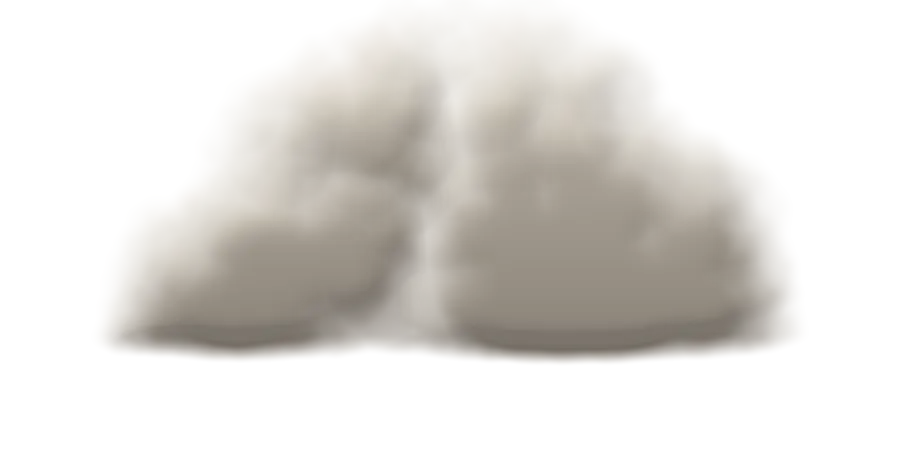
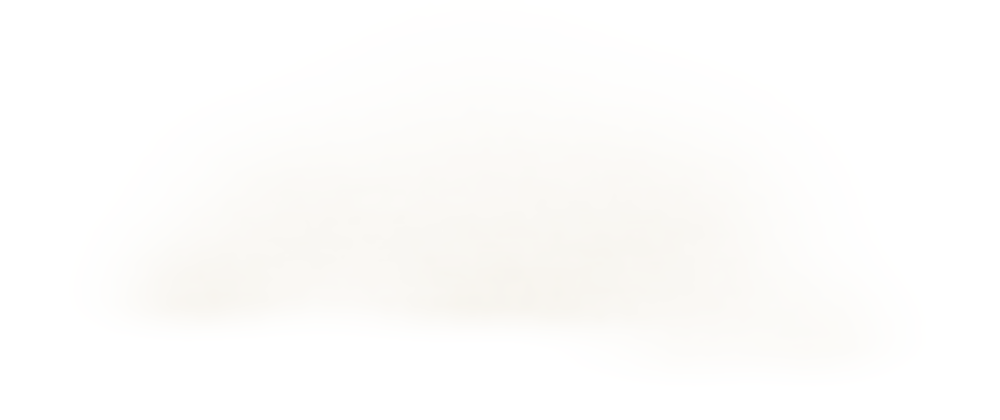
feat: the clouds cross the landing as ink washes, in the manner of the persimmon (#461)
* feat: the clouds cross the landing as ink washes, in the manner of the persimmon

The photographic cumulus sat oddly beside a wash painting and read as one
compact lump. brand/clouds.py now paints three cloud banks the way a wash
sits on paper: one tint with the tone in the transparency, ink gathering
toward a wet underside while the crown thins into the paper, a sideways
bleed, a hint of dry brush, paper grain. No lighting model. Paper gets
diluted warm ink, dark ground the same wash as pale ivory, and a bank
crossing the sun or moon veils it like mist.

* fix: a one-row bank no longer divides by zero in the wash gradation

---------

diff --git a/site/style.css b/site/style.css
@@ -75,13 +75,13 @@ main, .footer { max-width: var(--column); margin-inline: auto; }
 .landing-page { position: relative; isolation: isolate; }
 .landing-art { position: absolute; top: 0; left: 0; width: 100%; height: 904px; object-fit: cover; object-position: center bottom; mix-blend-mode: multiply; opacity: .74; z-index: -3; pointer-events: none; mask-image: linear-gradient(black 88%, transparent); }
 :root:not([data-theme="light"]) .landing-art { filter: invert(1) hue-rotate(180deg); mix-blend-mode: screen; opacity: .4; }
-/* Three rendered clouds drift in front of the sun or moon and veil them as they pass. brand/clouds.py draws them,
-   moonlit grey for dark ground and sun-lit white for paper, each lit from the upper left, so none is mirrored. */
+/* Three ink-wash cloud banks drift in front of the sun or moon and veil them as they pass. brand/clouds.py draws them,
+   diluted ink for paper and pale ivory for dark ground, one tint with the tone in the transparency. */
 .landing-clouds { position: absolute; top: 0; left: 0; width: 100%; height: 420px; overflow: hidden; z-index: -1; pointer-events: none; }
 .cloud { position: absolute; right: 100%; background: center / 100% 100% no-repeat; animation: cloud-drift 150s linear infinite; }
-.cloud:nth-child(1) { top: 36px; width: clamp(300px, 42vw, 660px); aspect-ratio: 5 / 2; background-image: url("img/cloud-1.webp"); animation-delay: -46s; }
-.cloud:nth-child(2) { top: 116px; width: clamp(220px, 30vw, 460px); aspect-ratio: 45 / 23; background-image: url("img/cloud-2.webp"); animation-duration: 190s; animation-delay: -132s; }
-.cloud:nth-child(3) { top: 150px; width: clamp(320px, 48vw, 780px); aspect-ratio: 35 / 9; background-image: url("img/cloud-3.webp"); animation-duration: 120s; animation-delay: -84s; }
+.cloud:nth-child(1) { top: 20px; width: clamp(300px, 40vw, 660px); aspect-ratio: 70 / 23; background-image: url("img/cloud-1.webp"); animation-delay: -46s; }
+.cloud:nth-child(2) { top: 96px; width: clamp(220px, 28vw, 460px); aspect-ratio: 50 / 21; background-image: url("img/cloud-2.webp"); animation-duration: 190s; animation-delay: -132s; }
+.cloud:nth-child(3) { top: 150px; width: clamp(320px, 46vw, 760px); aspect-ratio: 5 / 1; background-image: url("img/cloud-3.webp"); animation-duration: 120s; animation-delay: -84s; }
 [data-theme="light"] .cloud:nth-child(1) { background-image: url("img/cloud-1-light.webp"); }
 [data-theme="light"] .cloud:nth-child(2) { background-image: url("img/cloud-2-light.webp"); }
 [data-theme="light"] .cloud:nth-child(3) { background-image: url("img/cloud-3-light.webp"); }

diff --git a/brand/clouds.py b/brand/clouds.py
@@ -1,16 +1,18 @@
-"""Render the landing's clouds.
+"""Render the landing's clouds as ink washes.
 
-Six transparent WebP images in ``site/img``: three cloud shapes, each drawn twice, once for
-dark ground (``cloud-N.webp``, moonlit grey) and once for paper (``cloud-N-light.webp``,
-sun-lit white). The drawing is procedural, so this file is the generation record; run it
-again to reproduce the assets::
+Six transparent WebP images in ``site/img``: three cloud banks, each drawn twice, once for
+paper (``cloud-N-light.webp``, diluted ink) and once for dark ground (``cloud-N.webp``, pale
+ivory). The drawing is procedural, so this file is the generation record; run it again to
+reproduce the assets::
 
     python brand/clouds.py
 
-It needs numpy, scipy, and Pillow, which the product itself does not use. A cloud is a soft
-union of round puffs, cut into billows by inverted Worley noise and fractal noise, then lit
-from the upper left by treating the smoothed density as a height field. It is decoration on
-the landing page, not a weather model.
+It needs numpy, scipy, and Pillow, which the product itself does not use. Each bank is a
+soft union of round lobes with a flat, wet underside, painted the way a wash sits on paper:
+one tint, with the tone carried by transparency; ink gathering toward the underside while
+the crown thins into the paper; pigment pooling where the wet edge stopped; a sideways
+bleed; a hint of dry brush; paper grain. No lighting model, no volume. Decoration for the
+landing page in the manner of its persimmon wash, not a weather picture.
 """
 
 from __future__ import annotations
@@ -19,84 +21,56 @@ from pathlib import Path
 
 import numpy as np
 from PIL import Image
-from scipy.ndimage import gaussian_filter, map_coordinates
+from scipy.ndimage import gaussian_filter, map_coordinates, zoom
 
 OUT = Path(__file__).resolve().parents[1] / "site" / "img"
-LIGHT_DIRECTION = np.array([-0.30, -0.80, 0.52])
 
-# Sun-lit white with warm grey undersides, thin edges glowing where light passes through.
-DAY = {
-    "light": (255, 253, 249),
-    "shadow": (146, 137, 126),
-    "ambient": 0.42,
-    "gain": 0.68,
-    "texture": 0.45,
-    "core": (0.40, 0.72),
-    "fringe": (0.18, 0.48),
-    "glow": 0.45,
-    "occlusion": 0.45,
-}
-# Moonlit grey: denser and calmer, so the dark sky does not show through as mottling.
-NIGHT = {
-    "light": (214, 206, 192),
-    "shadow": (66, 60, 54),
-    "ambient": 0.46,
-    "gain": 0.62,
-    "texture": 0.30,
-    "core": (0.34, 0.66),
-    "fringe": (0.16, 0.44),
-    "glow": 0.25,
-    "occlusion": 0.40,
-}
+# Diluted warm ink on paper, and the same wash as pale ivory on dark ground.
+DAY = {"tint": (108, 100, 92), "max_alpha": 0.46}
+NIGHT = {"tint": (236, 228, 214), "max_alpha": 0.48}
 
-# name: (width, height), puffs as (x, y, radius), baseline y of the flat underside, noise seed
+# name: (width, height), noise seed, banks as (weight, lobes as (x, y, radius), baseline y of the underside)
 CLOUDS = {
     "cloud-1": (
-        (1200, 480),
+        (1400, 460),
+        5,
         [
-            (600, 190, 230),
-            (420, 250, 180),
-            (790, 240, 175),
-            (300, 300, 130),
-            (920, 300, 120),
-            (520, 300, 170),
-            (700, 290, 160),
-            (200, 340, 90),
-            (1010, 345, 80),
+            (
+                1.0,
+                [(420, 250, 150), (600, 190, 200), (800, 215, 180), (980, 270, 130), (280, 300, 110), (700, 300, 160)],
+                360,
+            ),
+            (0.55, [(1000, 330, 120), (1160, 350, 90), (860, 360, 100)], 400),
         ],
-        372,
-        1,
     ),
     "cloud-2": (
-        (900, 460),
+        (1000, 420),
+        9,
         [
-            (450, 170, 200),
-            (300, 250, 150),
-            (600, 240, 160),
-            (200, 320, 100),
-            (700, 320, 95),
-            (450, 300, 170),
-            (560, 330, 120),
+            (1.0, [(300, 220, 130), (480, 160, 170), (660, 210, 150), (200, 300, 90), (500, 290, 150)], 340),
+            (0.5, [(700, 310, 110), (820, 330, 80)], 380),
         ],
-        366,
-        7,
     ),
     "cloud-3": (
-        (1400, 360),
+        (1700, 340),
+        13,
         [
-            (700, 150, 190),
-            (450, 190, 150),
-            (950, 180, 160),
-            (250, 230, 110),
-            (1150, 230, 110),
-            (600, 220, 150),
-            (820, 230, 140),
-            (130, 270, 70),
-            (1290, 265, 70),
-            (1000, 250, 100),
+            (
+                1.0,
+                [
+                    (300, 190, 110),
+                    (520, 150, 140),
+                    (760, 170, 130),
+                    (1000, 140, 150),
+                    (1250, 180, 120),
+                    (1450, 220, 90),
+                    (640, 230, 120),
+                    (1120, 230, 110),
+                ],
+                280,
+            ),
+            (0.45, [(180, 250, 70), (420, 260, 90), (1350, 270, 80), (1550, 280, 60)], 310),
         ],
-        292,
-        11,
     ),
 }
 
@@ -137,75 +111,64 @@ def fbm(h: int, w: int, cells: float, octaves: int, rng: np.random.Generator) ->
     return total / weight
 
 
-def worley(h: int, w: int, cells: int, rng: np.random.Generator) -> np.ndarray:
-    """Distance to the nearest jittered lattice point, 0 at the point and 1 a cell away: inverted, round puffs."""
-    size = w / cells
-    grid_y, grid_x = int(np.ceil(h / size)) + 3, cells + 3
-    grid = np.mgrid[0:grid_y, 0:grid_x].transpose(1, 2, 0).astype(float)
-    points = (grid + rng.random((grid_y, grid_x, 2))) * size - size
-    yy, xx = np.mgrid[0:h, 0:w].astype(float)
-    cell_y = ((yy + size) // size).astype(int)
-    cell_x = ((xx + size) // size).astype(int)
-    nearest = np.full((h, w), np.inf)
-    for dy in (-1, 0, 1):
-        for dx in (-1, 0, 1):
-            iy = np.clip(cell_y + dy, 0, grid_y - 1)
-            ix = np.clip(cell_x + dx, 0, grid_x - 1)
-            nearest = np.minimum(nearest, np.hypot(yy - points[iy, ix, 0], xx - points[iy, ix, 1]))
-    return np.clip(nearest / size, 0, 1)
+def bank(w: int, h: int, rng: np.random.Generator, lobes, base_y: float) -> tuple[np.ndarray, np.ndarray]:
+    """A lobed bank with a flat underside, its outline nudged by slow noise so no lobe is a clean circle.
 
-
-def lit(thickness: np.ndarray, relief: float) -> np.ndarray:
-    """Diffuse light on the thickness map read as a height field."""
-    gy, gx = np.gradient(thickness)
-    normal = np.dstack([-gx * relief, -gy * relief, np.ones_like(thickness)])
-    normal /= np.linalg.norm(normal, axis=2, keepdims=True)
-    return np.clip(normal @ (LIGHT_DIRECTION / np.linalg.norm(LIGHT_DIRECTION)), 0, 1)
-
-
-def render(size, puffs, baseline, seed, *, light, shadow, ambient, gain, texture, core, fringe, glow, occlusion):
-    w, h = size
-    rng = np.random.default_rng(seed)
+    Returns the bank's coverage and, separately, how close each pixel sits to a lobe's heart.
+    """
     yy, xx = np.mgrid[0:h, 0:w].astype(float)
     field = np.zeros((h, w))
-    for cx, cy, r in puffs:
-        field += np.exp(-1.5 * (((xx - cx) / r) ** 2 + ((yy - cy) / (r * 0.85)) ** 2))
-    body = (1 - np.exp(-1.3 * field)) * smoothstep(baseline + 12, baseline - 34, yy)
-
-    # Billows and texture are sampled through a gentle domain warp so nothing sits on a grid.
-    warp = 0.05 * w
+    for cx, cy, r in lobes:
+        field += np.exp(-1.6 * (((xx - cx) / r) ** 2 + ((yy - cy) / (r * 0.8)) ** 2))
+    body = (1 - np.exp(-1.4 * field)) * smoothstep(base_y + 16, base_y - 40, yy)
+    warp = 0.03 * w
     coords = [
-        np.clip(yy + (fbm(h, w, 2, 3, rng) - 0.5) * warp, 0, h - 1),
-        np.clip(xx + (fbm(h, w, 2, 3, rng) - 0.5) * warp, 0, w - 1),
+        np.clip(yy + (fbm(h, w, 3, 3, rng) - 0.5) * warp, 0, h - 1),
+        np.clip(xx + (fbm(h, w, 3, 3, rng) - 0.5) * warp, 0, w - 1),
     ]
-    cells = max(3, round(w / 240))
-    billow = sum(weight * (1 - worley(h, w, cells * scale, rng)) for weight, scale in ((0.55, 1), (0.30, 2), (0.15, 4)))
-    billow = map_coordinates(billow, coords, order=1, mode="nearest")
-    grain = map_coordinates(fbm(h, w, 4, 5, rng), coords, order=1, mode="nearest")
-    fine = fbm(h, w, 16, 3, rng)
-    density = body * (0.25 + 0.95 * billow) * (1 - texture / 2 + texture * grain) + 0.14 * (fine - 0.5)
-    alpha = 0.5 * smoothstep(*fringe, density) + 0.5 * smoothstep(*core, density)
-    alpha = gaussian_filter(np.clip(alpha, 0, 1), 0.8)
+    return (
+        map_coordinates(body, coords, order=1, mode="nearest"),
+        map_coordinates(np.clip(field, 0, 1.2) / 1.2, coords, order=1, mode="nearest"),
+    )
 
-    coarse = gaussian_filter(alpha, 12)
-    diffuse = 0.62 * lit(coarse, 120) + 0.38 * lit(gaussian_filter(alpha, 4), 32)
-    rows = np.where(alpha.max(axis=1) > 0.05)[0]
-    top = rows.min() if rows.size else 0
-    depth = np.clip((yy - top) / max(1.0, baseline - top), 0, 1)
-    shade = (ambient + gain * diffuse) * (1 - occlusion * depth**1.4 * coarse / max(coarse.max(), 1e-6))
-    shade = np.clip(shade, 0, 1)
-    shade += (1 - shade) * glow * (1 - alpha)
 
-    light, shadow = np.array(light, float), np.array(shadow, float)
-    rgb = shadow + (light - shadow) * shade[..., None]
+def render(size, seed, banks, *, tint, max_alpha) -> Image.Image:
+    w, h = size
+    rng = np.random.default_rng(seed)
+    yy = np.mgrid[0:h, 0:w][0].astype(float)
+    wash = np.zeros((h, w))
+    hearts = np.zeros((h, w))
+    for weight, lobes, base_y in banks:
+        body, heart = bank(w, h, rng, lobes, base_y)
+        wash = 1 - (1 - wash) * (1 - weight * body)
+        hearts = np.maximum(hearts, heart * weight)
+    rows = np.where(wash.max(axis=1) > 0.05)[0]
+    top, base = (rows.min(), max(rows.max(), rows.min() + 1)) if rows.size else (0, h - 1)
+
+    # Ink gathers toward the underside while the crown thins; each lobe keeps a slightly denser heart.
+    gradation = 0.32 + 0.68 * smoothstep(top, base, yy) ** 1.1
+    density = wash * gradation * (0.78 + 0.32 * hearts) * (0.72 + 0.56 * fbm(h, w, 2, 3, rng))
+    # Pigment pools where the wet wash stopped along the underside.
+    gy = np.gradient(gaussian_filter(wash, 3), axis=0)
+    density += gaussian_filter(np.clip(-gy, 0, None), 2) * 9 * wash
+    # The wash bleeds sideways; a little of the crisp edge survives.
+    density = 0.62 * gaussian_filter(density, sigma=(4, 7)) + 0.38 * density
+    # A hint of dry brush along the body, then paper grain.
+    streak = zoom(fbm(h, max(8, w // 10), 10, 3, rng), (1, 10), order=1)[:, :w]
+    streak = np.pad(streak, ((0, 0), (0, w - streak.shape[1])), mode="edge")
+    density *= 0.94 + 0.12 * streak
+    density *= 0.92 + 0.16 * fbm(h, w, 70, 2, rng)
+
+    alpha = np.clip(density, 0, 1) * max_alpha
+    rgb = np.broadcast_to(np.array(tint, float), (h, w, 3))
     return Image.fromarray(np.dstack([rgb, alpha * 255]).clip(0, 255).astype(np.uint8), "RGBA")
 
 
 def main() -> None:
-    for name, (size, puffs, baseline, seed) in CLOUDS.items():
+    for name, (size, seed, banks) in CLOUDS.items():
         for suffix, palette in (("", NIGHT), ("-light", DAY)):
             path = OUT / f"{name}{suffix}.webp"
-            render(size, puffs, baseline, seed, **palette).save(path, quality=80, method=6)
+            render(size, seed, banks, **palette).save(path, quality=80, method=6)
             print(f"{path.relative_to(OUT.parents[1])}  {path.stat().st_size // 1024} KB")
 
 

diff --git a/tests/test_brand.py b/tests/test_brand.py
@@ -128,7 +128,7 @@ def test_landing_clouds_are_rendered_images_for_each_ground():
     # The paper ground gets its own rendering, in the -light naming the other assets use.
     light = re.findall(r'\[data-theme="light"\][^{}]*\{[^{}]*?url\("(img/cloud-[^"]+\.webp)"\)', css)
     assert {image for image in images if image.endswith("-light.webp")} == set(light)
-    # A sun-lit cloud must not be mirrored: its light would come from the wrong side.
+    # The wash carries its own direction and tone; CSS does not mirror it.
     assert "scale: -1 1" not in css
 
 

diff --git a/brand/README.md b/brand/README.md
@@ -98,13 +98,16 @@ A soft ivory halo makes the moon luminous on dark ground. Use the generated
 transparent assets; do not replace them with drawn icons. Only the current body
 is loaded.
 
-Three rendered clouds drift slowly across the sky in front of the sun or moon
-and veil them as they pass. `brand/clouds.py` draws them procedurally: sun-lit
-white with grey undersides for paper, moonlit grey for dark ground, each lit
-from the upper left. Run it to regenerate the six transparent WebP files. The
-layer is hidden from assistive technology and keeps to the sky band above the
-headline, behind the header and the text. Do not
-mirror or recolour a cloud in CSS; its light would come from the wrong side.
+Three ink-wash cloud banks drift slowly across the sky in front of the sun or
+moon and veil them as they pass, the way mist crosses a moon in a wash painting.
+`brand/clouds.py` draws them procedurally in the manner of the persimmon wash:
+one tint with the tone in the transparency, ink gathering toward a wet underside
+while the crown thins into the paper, a sideways bleed, a hint of dry brush, and
+paper grain. Paper gets diluted warm ink; dark ground gets the same wash as pale
+ivory. Run it to regenerate the six transparent WebP files. The layer is hidden
+from assistive technology and keeps to the sky band above the headline, behind
+the header and the text. Do not recolour or sharpen a bank in CSS; the tone is
+the drawing.
 
 Update each minute while visible. Resume from the current time after sleep or
 browser-history restoration. Reduced motion disables transitions and holds the
@@ -142,7 +145,7 @@ clear wherever the corresponding feature is explained.
 | `site/img/favicon.svg`, `apple-touch-icon.png` | Reversed persimmon symbol on dark ground |
 | `site/img/persimmon-wash.webp` | Decorative landing illustration, generated from the approved page concept |
 | `site/img/sun.png`, `moon.png` | ChatGPT Image-generated transparent sun and moon; original alpha and resolution preserved |
-| `site/img/cloud-1.webp` … `cloud-3-light.webp` | Rendered clouds for dark ground and paper; regenerate with `brand/clouds.py` |
+| `site/img/cloud-1.webp` … `cloud-3-light.webp` | Ink-wash cloud banks for dark ground and paper; regenerate with `brand/clouds.py` |
 | `site/img/task.png`, `task-light.png`, `board.png` | Actual board with scripted, cost-free work |
 | `site/social.html`, `site/img/social.png` | Source and 1280×640 share image |
 

diff --git a/docs/branding.md b/docs/branding.md
@@ -164,10 +164,11 @@ ChatGPT Image로 만든 [선택 시안](assets/branding/logo-persimmon-concept.p
 06–18시가 밝은 화면이므로 해가, 나머지 시간에는 달이 뜬다. Light·Dark를 직접 고르면
 시각과 상관없이 그 화면의 해나 달을 보여 준다. 어느 쪽이든 호는 시각을 따라
 왼쪽에서 떠서 정오·자정에 가운데 가장 높은 곳을 지나 오른쪽으로 내려간다.
-하늘에는 구름 세 덩이가 해와 달 앞을 천천히 흘러가며, 지나갈 때 해와 달을 가린다.
-구름은 [brand/clouds.py](../brand/clouds.py)가 노이즈로 렌더링한 반투명 이미지다. 밝은 화면용은
-햇빛을 받은 흰 구름, 어두운 화면용은 달빛의 회색 구름이며 모두 왼쪽 위에서 빛을 받으므로
-CSS로 뒤집거나 색을 바꾸지 않는다.
+하늘에는 수묵 담채의 구름 띠 세 개가 해와 달 앞을 천천히 흘러가며, 지나갈 때 안개처럼
+해와 달을 가린다. 구름은 [brand/clouds.py](../brand/clouds.py)가 감나무 담채와 같은 방식으로
+렌더링한 반투명 이미지다. 한 가지 먹색에 농담은 투명도로 두고, 아랫면으로 먹이 모이며
+윗부분은 종이 속으로 옅어진다. 밝은 화면에는 묽은 먹을, 어두운 화면에는 같은 번짐을 옅은
+아이보리로 쓴다. CSS로 색을 바꾸거나 선명하게 하지 않는다.
 밤에는 달 주변으로 옅은 아이보리 빛이 퍼지고, 표면의 질감은 선명하게 유지한다.
 실제 일출·일몰이나 달의 위상을 계산하는 기능은 아니다. 위치 권한이나 외부 요청 없이
 분마다 갱신하고, 숨긴 탭은 갱신을 멈췄다가 돌아오면 현재 시각을 다시 읽는다.
